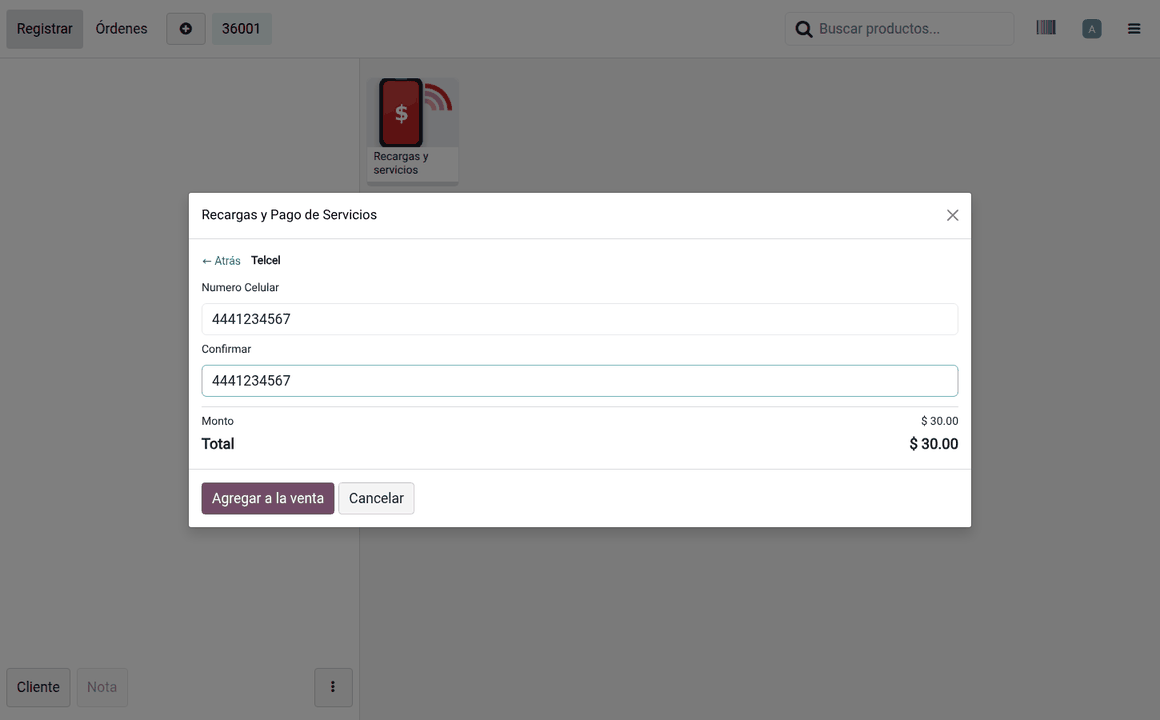
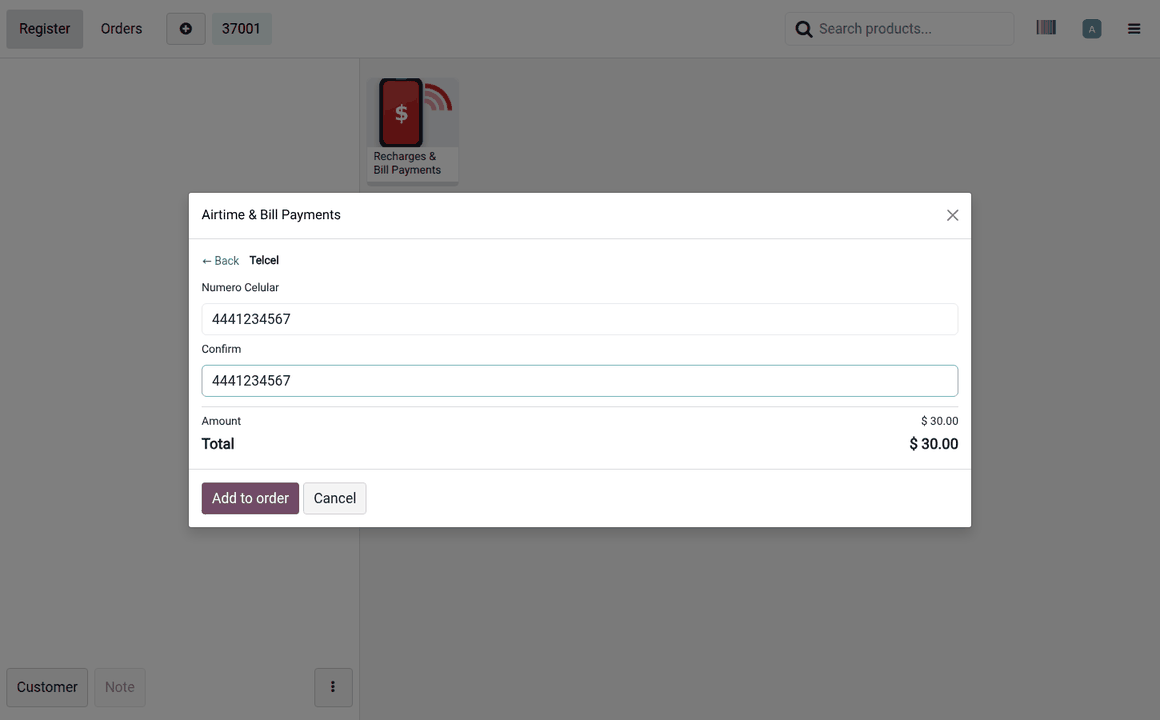
docs(taecel): la ficha del store anuncia el manual incluido, y arregla las capturas en ingles
El manual embebido es argumento de venta y no estaba en la ficha: seccion nueva
con la captura del articulo ya renderizado, aclarando que es un articulo normal
(editable, y una actualizacion no pisa los cambios del comprador) y que en
Community el modulo simplemente se salta ese paso.

Y un error que solo se vio al fotografiar la ficha: las 10 primeras capturas de
la carpeta `en` estaban EN ESPANOL. Al tomarlas cambie el idioma del usuario por
SQL sin reiniciar, y `res.users.context_get()` esta en ormcache, asi que el
servidor siguio sirviendo la UI en el idioma anterior. Reiniciar entre idiomas es
obligatorio; dos capturas identicas byte a byte es la pista de que no paso.

diff --git a/xb_pos_taecel/static/description/index.html b/xb_pos_taecel/static/description/index.html
@@ -147,6 +147,25 @@
       </p>
     </div>
 
+    <h3 style="color:#C62828;margin:0 0 10px;">The cashier manual comes with it</h3>
+    <p style="font-size:15px;line-height:1.6;margin:0 0 14px;">
+      Installing the module writes a <b>Knowledge article</b> into your
+      workspace: the whole counter routine in six steps, with screenshots, what
+      each rejection reason means and what to do about it, the states the office
+      sees, and how the wallets are funded. Written for the person at the till,
+      in <b>English or Spanish</b> depending on your database &mdash; no training
+      deck to prepare and nothing to hand out.
+    </p>
+    <div style="margin:0 0 32px;">
+      <img src="screenshots/manual.png"
+           style="max-width:100%;border:1px solid #ecdede;border-radius:8px;"/>
+      <p style="font-size:13px;color:#888;margin:8px 0 0;">
+        It is an ordinary article: edit it, add your own shop rules, and an
+        update will not overwrite your changes. Requires the Knowledge app; on
+        Community the module simply skips this step.
+      </p>
+    </div>
+
     <h3 style="color:#C62828;margin:0 0 10px;">Requirements</h3>
     <ul style="font-size:15px;line-height:1.7;margin:0 0 28px;padding-left:20px;">
       <li>A <b>TAECEL account with API access</b>. TAECEL issues web-service
